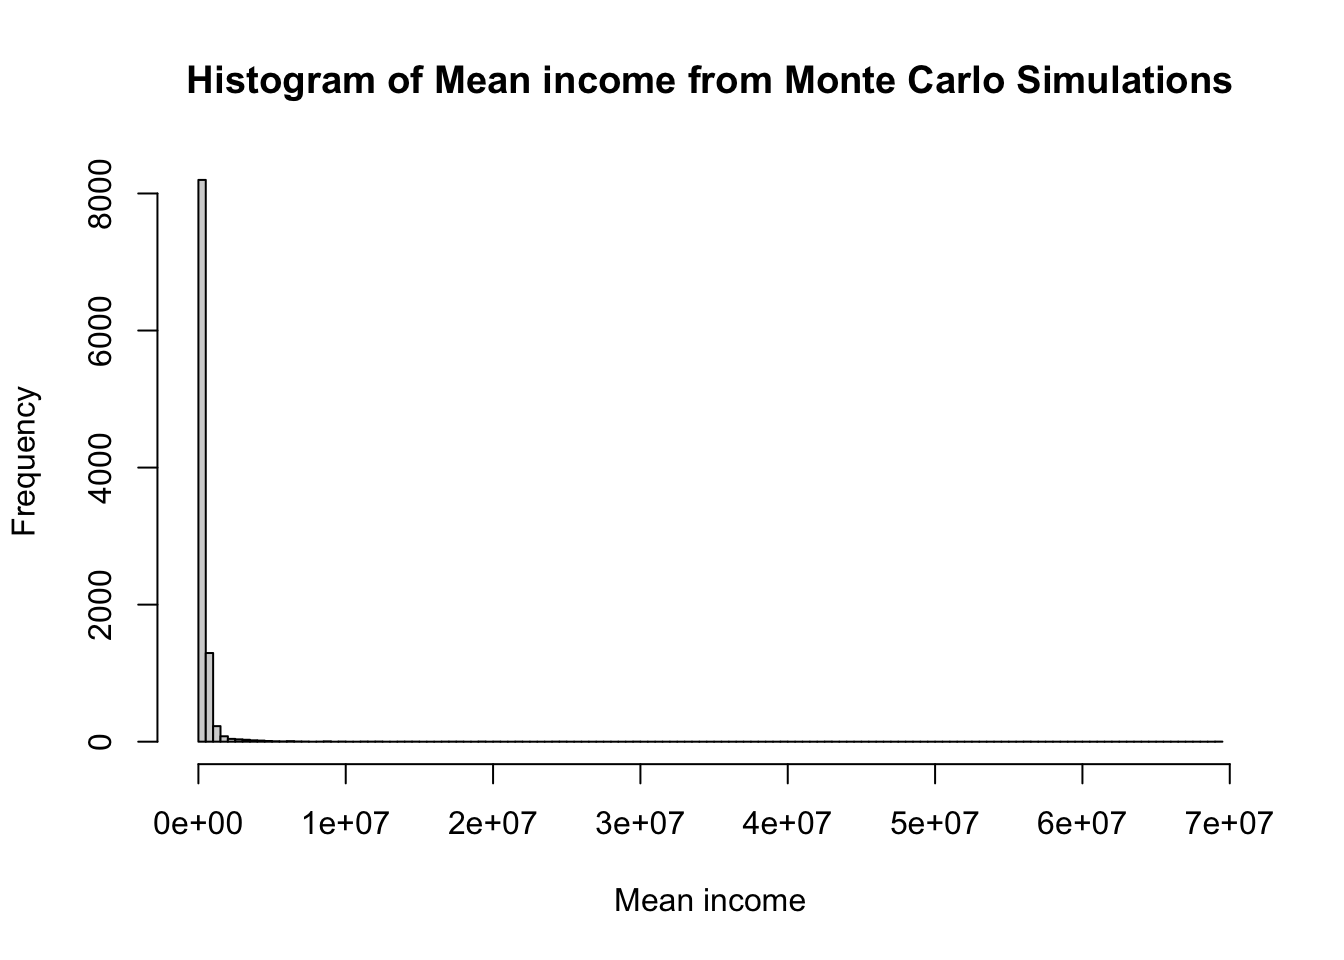
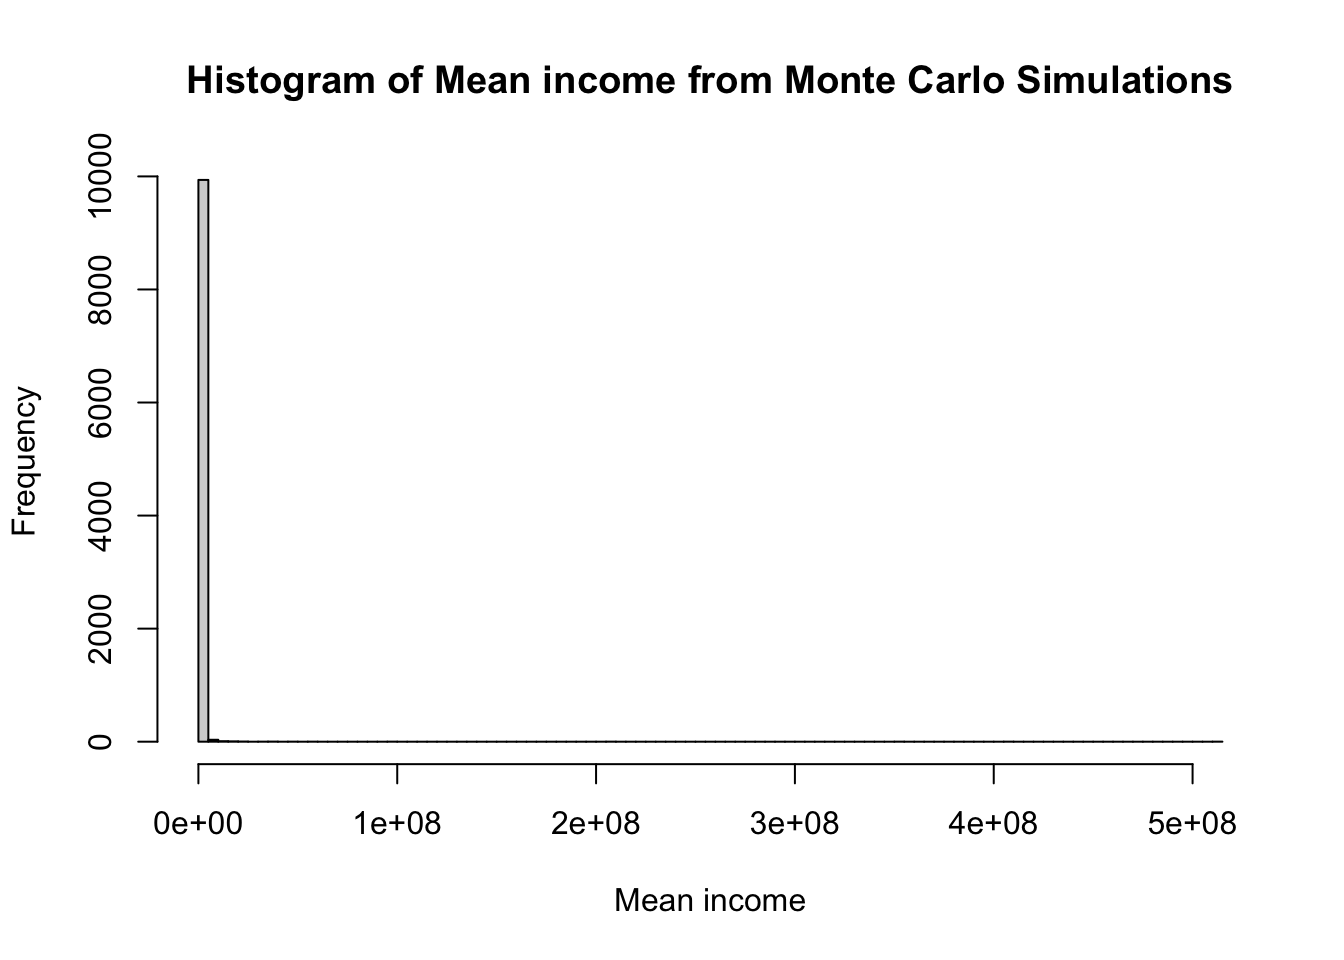
footnote pareto

diff --git a/docs/posts/montecarlo.html b/docs/posts/montecarlo.html
@@ -808,7 +808,10 @@ window.Quarto = {
   <li><a href="#case-scenario" id="toc-case-scenario" class="nav-link" data-scroll-target="#case-scenario">Case Scenario</a></li>
   <li><a href="#monte-carlo-simulation-of-income-distribution" id="toc-monte-carlo-simulation-of-income-distribution" class="nav-link" data-scroll-target="#monte-carlo-simulation-of-income-distribution">Monte Carlo simulation of income distribution</a></li>
   <li><a href="#r-for-simulating-income-distribution" id="toc-r-for-simulating-income-distribution" class="nav-link" data-scroll-target="#r-for-simulating-income-distribution">r for simulating income distribution</a></li>
-  <li><a href="#explanation-of-the-code" id="toc-explanation-of-the-code" class="nav-link" data-scroll-target="#explanation-of-the-code">Explanation of the code</a></li>
+  <li><a href="#the-simulation1" id="toc-the-simulation1" class="nav-link" data-scroll-target="#the-simulation1">The simulation</a></li>
+  <li><a href="#visualisation-of-mean-income" id="toc-visualisation-of-mean-income" class="nav-link" data-scroll-target="#visualisation-of-mean-income">Visualisation of mean income</a></li>
+  <li><a href="#distribution-of-median-income" id="toc-distribution-of-median-income" class="nav-link" data-scroll-target="#distribution-of-median-income">Distribution of median income</a></li>
+  <li><a href="#visualisation-of-the-paths" id="toc-visualisation-of-the-paths" class="nav-link" data-scroll-target="#visualisation-of-the-paths">Visualisation of the paths</a></li>
   <li><a href="#interpretation" id="toc-interpretation" class="nav-link" data-scroll-target="#interpretation">Interpretation</a></li>
   <li><a href="#summary" id="toc-summary" class="nav-link" data-scroll-target="#summary">Summary</a></li>
   </ul>
@@ -899,7 +902,7 @@ Income distribution is not normal
 </section>
 <section id="monte-carlo-simulation-of-income-distribution" class="level2">
 <h2 class="anchored" data-anchor-id="monte-carlo-simulation-of-income-distribution">Monte Carlo simulation of income distribution</h2>
-<p>Monte Carlo Simulation can be defined as a computational method of repeated random sampling to obtain numerical results. It can be done using <code>excel</code> with or without add-ons for simulation. Excel does not natively support Pareto sampling. Free Open Sourse add-ons like <code>XLRisk</code> also (right now) does not support the same. <code>r</code> is excellent tool in this situation and also for Monte Carlo simulation of returns form volatile instruments using <code>levi stable distribution</code></p>
+<p>Monte Carlo Simulation can be defined as a computational method of repeated random sampling to obtain numerical results. It can be done using <code>excel</code> with or without add-ons for simulation. Excel does not natively support Pareto sampling. Free Open Sourse add-ons like <code>XLRisk</code> also (right now) does not support the same. <code>r</code> is excellent tool in this situation and also for Monte Carlo simulation of returns for volatile instruments using <code>levi stable distribution</code></p>
 </section>
 <section id="r-for-simulating-income-distribution" class="level2">
 <h2 class="anchored" data-anchor-id="r-for-simulating-income-distribution">r for simulating income distribution</h2>
@@ -927,39 +930,33 @@ Income distribution is not normal
 </details>
 </div>
 <p>To perform a Monte Carlo simulation, we will repeat the random sampling multiple times and analyze the results. Let’s say we want to perform 10000 simulations.</p>
+</section>
+<section id="the-simulation1" class="level2">
+<h2 class="anchored" data-anchor-id="the-simulation1">The simulation<a href="#fn1" class="footnote-ref" id="fnref1" role="doc-noteref"><sup>1</sup></a></h2>
 <div class="cell">
 <details open="" class="code-fold">
 <summary>Code</summary>
-<div class="sourceCode cell-code" id="cb4"><pre class="sourceCode r code-with-copy"><code class="sourceCode r"><span id="cb4-1"><a href="#cb4-1" aria-hidden="true" tabindex="-1"></a>num_simulations <span class="ot">&lt;-</span> <span class="dv">10000</span></span>
-<span id="cb4-2"><a href="#cb4-2" aria-hidden="true" tabindex="-1"></a>simulation_results <span class="ot">&lt;-</span> <span class="fu">matrix</span>(<span class="cn">NA</span>, <span class="at">nrow =</span> num_simulations, <span class="at">ncol =</span> n)</span>
-<span id="cb4-3"><a href="#cb4-3" aria-hidden="true" tabindex="-1"></a></span>
-<span id="cb4-4"><a href="#cb4-4" aria-hidden="true" tabindex="-1"></a><span class="cf">for</span> (i <span class="cf">in</span> <span class="dv">1</span><span class="sc">:</span>num_simulations) {</span>
-<span id="cb4-5"><a href="#cb4-5" aria-hidden="true" tabindex="-1"></a>  simulation_results[i, ] <span class="ot">&lt;-</span> <span class="fu">rpareto</span>(n, <span class="at">scale =</span> xm, <span class="at">shape =</span> alpha)</span>
-<span id="cb4-6"><a href="#cb4-6" aria-hidden="true" tabindex="-1"></a>}</span>
-<span id="cb4-7"><a href="#cb4-7" aria-hidden="true" tabindex="-1"></a></span>
-<span id="cb4-8"><a href="#cb4-8" aria-hidden="true" tabindex="-1"></a><span class="co"># Summarize the results</span></span>
-<span id="cb4-9"><a href="#cb4-9" aria-hidden="true" tabindex="-1"></a>mean_income <span class="ot">&lt;-</span> <span class="fu">apply</span>(simulation_results, <span class="dv">1</span>, mean)</span>
-<span id="cb4-10"><a href="#cb4-10" aria-hidden="true" tabindex="-1"></a>median_income <span class="ot">&lt;-</span> <span class="fu">apply</span>(simulation_results, <span class="dv">1</span>, median)</span>
-<span id="cb4-11"><a href="#cb4-11" aria-hidden="true" tabindex="-1"></a>sd_income <span class="ot">&lt;-</span> <span class="fu">apply</span>(simulation_results, <span class="dv">1</span>, sd)</span></code><button title="Copy to Clipboard" class="code-copy-button"><i class="bi"></i></button></pre></div>
+<div class="sourceCode cell-code" id="cb5"><pre class="sourceCode r code-with-copy"><code class="sourceCode r"><span id="cb5-1"><a href="#cb5-1" aria-hidden="true" tabindex="-1"></a>num_simulations <span class="ot">&lt;-</span> <span class="dv">10000</span></span>
+<span id="cb5-2"><a href="#cb5-2" aria-hidden="true" tabindex="-1"></a>simulation_results <span class="ot">&lt;-</span> <span class="fu">matrix</span>(<span class="cn">NA</span>, <span class="at">nrow =</span> num_simulations, <span class="at">ncol =</span> n)</span>
+<span id="cb5-3"><a href="#cb5-3" aria-hidden="true" tabindex="-1"></a></span>
+<span id="cb5-4"><a href="#cb5-4" aria-hidden="true" tabindex="-1"></a><span class="cf">for</span> (i <span class="cf">in</span> <span class="dv">1</span><span class="sc">:</span>num_simulations) {</span>
+<span id="cb5-5"><a href="#cb5-5" aria-hidden="true" tabindex="-1"></a>  simulation_results[i, ] <span class="ot">&lt;-</span> <span class="fu">rpareto</span>(n, <span class="at">scale =</span> xm, <span class="at">shape =</span> alpha)</span>
+<span id="cb5-6"><a href="#cb5-6" aria-hidden="true" tabindex="-1"></a>}</span>
+<span id="cb5-7"><a href="#cb5-7" aria-hidden="true" tabindex="-1"></a></span>
+<span id="cb5-8"><a href="#cb5-8" aria-hidden="true" tabindex="-1"></a><span class="co"># Summarize the results</span></span>
+<span id="cb5-9"><a href="#cb5-9" aria-hidden="true" tabindex="-1"></a>mean_income <span class="ot">&lt;-</span> <span class="fu">apply</span>(simulation_results, <span class="dv">1</span>, mean)</span>
+<span id="cb5-10"><a href="#cb5-10" aria-hidden="true" tabindex="-1"></a>median_income <span class="ot">&lt;-</span> <span class="fu">apply</span>(simulation_results, <span class="dv">1</span>, median)</span>
+<span id="cb5-11"><a href="#cb5-11" aria-hidden="true" tabindex="-1"></a>sd_income <span class="ot">&lt;-</span> <span class="fu">apply</span>(simulation_results, <span class="dv">1</span>, sd)</span></code><button title="Copy to Clipboard" class="code-copy-button"><i class="bi"></i></button></pre></div>
 </details>
 </div>
 </section>
-<section id="explanation-of-the-code" class="level2">
-<h2 class="anchored" data-anchor-id="explanation-of-the-code">Explanation of the code</h2>
-<ul>
-<li><p><strong><code>NA</code></strong>: This specifies the value that will fill the matrix. In this case, <strong><code>NA</code></strong> indicates that each element of the matrix will be initialized as a missing value.</p></li>
-<li><p><strong><code>nrow = num_simulations</code></strong>: This argument specifies the number of rows in the matrix. Here, <strong><code>num_simulations</code></strong> is the number of simulations we want to run, so the matrix will have <strong><code>num_simulations</code></strong> rows.</p></li>
-<li><p><strong><code>ncol = n</code></strong>: This argument specifies the number of columns in the matrix. In our code, <strong><code>n</code></strong> is the number of individuals we want to simulate wealth for, so the matrix will have <strong><code>n</code></strong> columns.</p></li>
-<li><p><strong><code>for (i in 1:num_simulations)</code></strong>: This loop iterates <strong><code>num_simulations</code></strong> times, where <strong><code>i</code></strong> takes on the values from 1 to <strong><code>num_simulations</code></strong>.</p></li>
-<li><p><strong><code>simulation_results[i, ] &lt;- rpareto(n, scale = xm, shape = alpha)</code></strong>: In each iteration of the loop, you’re generating a set of random wealth values for <strong><code>n</code></strong> individuals using the Pareto distribution specified by the parameters <strong><code>scale = xm</code></strong> and <strong><code>shape = alpha</code></strong>.</p></li>
-<li><p><strong><code>rpareto(n, scale = xm, shape = alpha)</code></strong>: This function generates <strong><code>n</code></strong> random numbers from a Pareto distribution with scale <strong><code>xm</code></strong> and shape <strong><code>alpha</code></strong>.</p></li>
-<li><p><strong><code>simulation_results[i, ] &lt;- ...</code></strong>: This assigns the generated random wealth values to the <strong><code>i</code></strong>-th row of the <strong><code>simulation_results</code></strong> matrix. Each row of <strong><code>simulation_results</code></strong> represents the wealth distribution for one simulation iteration.</p></li>
-</ul>
+<section id="visualisation-of-mean-income" class="level2">
+<h2 class="anchored" data-anchor-id="visualisation-of-mean-income">Visualisation of mean income</h2>
 <div class="cell">
 <details open="" class="code-fold">
 <summary>Code</summary>
-<div class="sourceCode cell-code" id="cb5"><pre class="sourceCode r code-with-copy"><code class="sourceCode r"><span id="cb5-1"><a href="#cb5-1" aria-hidden="true" tabindex="-1"></a><span class="co"># Histogram of mean income from simulations</span></span>
-<span id="cb5-2"><a href="#cb5-2" aria-hidden="true" tabindex="-1"></a><span class="fu">hist</span>(mean_income, <span class="at">breaks =</span> <span class="dv">125</span>, <span class="at">main =</span> <span class="st">"Histogram of Mean income from Monte Carlo Simulations"</span>, <span class="at">xlab =</span> <span class="st">"Mean income"</span>)</span></code><button title="Copy to Clipboard" class="code-copy-button"><i class="bi"></i></button></pre></div>
+<div class="sourceCode cell-code" id="cb6"><pre class="sourceCode r code-with-copy"><code class="sourceCode r"><span id="cb6-1"><a href="#cb6-1" aria-hidden="true" tabindex="-1"></a><span class="co"># Histogram of mean income from simulations</span></span>
+<span id="cb6-2"><a href="#cb6-2" aria-hidden="true" tabindex="-1"></a><span class="fu">hist</span>(mean_income, <span class="at">breaks =</span> <span class="dv">125</span>, <span class="at">main =</span> <span class="st">"Histogram of Mean income from Monte Carlo Simulations"</span>, <span class="at">xlab =</span> <span class="st">"Mean income"</span>)</span></code><button title="Copy to Clipboard" class="code-copy-button"><i class="bi"></i></button></pre></div>
 </details>
 <div class="cell-output-display">
 <div>
@@ -970,35 +967,39 @@ Income distribution is not normal
 </div>
 <details open="" class="code-fold">
 <summary>Code</summary>
-<div class="sourceCode cell-code" id="cb6"><pre class="sourceCode r code-with-copy"><code class="sourceCode r"><span id="cb6-1"><a href="#cb6-1" aria-hidden="true" tabindex="-1"></a><span class="co"># Summary statistics</span></span>
-<span id="cb6-2"><a href="#cb6-2" aria-hidden="true" tabindex="-1"></a><span class="fu">summary</span>(mean_income)</span></code><button title="Copy to Clipboard" class="code-copy-button"><i class="bi"></i></button></pre></div>
-</details>
-<div class="cell-output cell-output-stdout">
-<pre><code>    Min.  1st Qu.   Median     Mean  3rd Qu.     Max. 
-  212446   296544   344103   522136   439824 69034850 </code></pre>
-</div>
-<details open="" class="code-fold">
-<summary>Code</summary>
-<div class="sourceCode cell-code" id="cb8"><pre class="sourceCode r code-with-copy"><code class="sourceCode r"><span id="cb8-1"><a href="#cb8-1" aria-hidden="true" tabindex="-1"></a><span class="fu">summary</span>(median_income)</span></code><button title="Copy to Clipboard" class="code-copy-button"><i class="bi"></i></button></pre></div>
-</details>
-<div class="cell-output cell-output-stdout">
-<pre><code>   Min. 1st Qu.  Median    Mean 3rd Qu.    Max. 
-  62237   64052   64488   64504   64945   67116 </code></pre>
-</div>
-<details open="" class="code-fold">
-<summary>Code</summary>
-<div class="sourceCode cell-code" id="cb10"><pre class="sourceCode r code-with-copy"><code class="sourceCode r"><span id="cb10-1"><a href="#cb10-1" aria-hidden="true" tabindex="-1"></a><span class="fu">summary</span>(sd_income)</span></code><button title="Copy to Clipboard" class="code-copy-button"><i class="bi"></i></button></pre></div>
+<div class="sourceCode cell-code" id="cb7"><pre class="sourceCode r code-with-copy"><code class="sourceCode r"><span id="cb7-1"><a href="#cb7-1" aria-hidden="true" tabindex="-1"></a><span class="co"># Summary statistics</span></span>
+<span id="cb7-2"><a href="#cb7-2" aria-hidden="true" tabindex="-1"></a><span class="fu">summary</span>(mean_income)</span></code><button title="Copy to Clipboard" class="code-copy-button"><i class="bi"></i></button></pre></div>
 </details>
 <div class="cell-output cell-output-stdout">
 <pre><code>     Min.   1st Qu.    Median      Mean   3rd Qu.      Max. 
-9.707e+05 3.339e+06 5.747e+06 2.277e+07 1.218e+07 6.867e+09 </code></pre>
+   206922    295955    344899    668662    439677 511731225 </code></pre>
+</div>
+<details open="" class="code-fold">
+<summary>Code</summary>
+<div class="sourceCode cell-code" id="cb9"><pre class="sourceCode r code-with-copy"><code class="sourceCode r"><span id="cb9-1"><a href="#cb9-1" aria-hidden="true" tabindex="-1"></a><span class="fu">summary</span>(median_income)</span></code><button title="Copy to Clipboard" class="code-copy-button"><i class="bi"></i></button></pre></div>
+</details>
+<div class="cell-output cell-output-stdout">
+<pre><code>   Min. 1st Qu.  Median    Mean 3rd Qu.    Max. 
+  61857   64076   64514   64514   64944   66843 </code></pre>
+</div>
+<details open="" class="code-fold">
+<summary>Code</summary>
+<div class="sourceCode cell-code" id="cb11"><pre class="sourceCode r code-with-copy"><code class="sourceCode r"><span id="cb11-1"><a href="#cb11-1" aria-hidden="true" tabindex="-1"></a><span class="fu">summary</span>(sd_income)</span></code><button title="Copy to Clipboard" class="code-copy-button"><i class="bi"></i></button></pre></div>
+</details>
+<div class="cell-output cell-output-stdout">
+<pre><code>     Min.   1st Qu.    Median      Mean   3rd Qu.      Max. 
+9.799e+05 3.345e+06 5.730e+06 3.748e+07 1.223e+07 5.109e+10 </code></pre>
 </div>
 </div>
+</section>
+<section id="distribution-of-median-income" class="level2">
+<h2 class="anchored" data-anchor-id="distribution-of-median-income">Distribution of median income</h2>
+<p>Median income is the most likely income one can expect in this community. It is an approximation of geometric mean of all the possible incomes.</p>
 <div class="cell">
 <details open="" class="code-fold">
 <summary>Code</summary>
-<div class="sourceCode cell-code" id="cb12"><pre class="sourceCode r code-with-copy"><code class="sourceCode r"><span id="cb12-1"><a href="#cb12-1" aria-hidden="true" tabindex="-1"></a><span class="co"># Density plot of median income</span></span>
-<span id="cb12-2"><a href="#cb12-2" aria-hidden="true" tabindex="-1"></a><span class="fu">plot</span>(<span class="fu">density</span>(median_income), <span class="at">main =</span> <span class="st">"Density Plot of Median income"</span>, <span class="at">xlab =</span> <span class="st">"Median income"</span>)</span></code><button title="Copy to Clipboard" class="code-copy-button"><i class="bi"></i></button></pre></div>
+<div class="sourceCode cell-code" id="cb13"><pre class="sourceCode r code-with-copy"><code class="sourceCode r"><span id="cb13-1"><a href="#cb13-1" aria-hidden="true" tabindex="-1"></a><span class="co"># Density plot of median income</span></span>
+<span id="cb13-2"><a href="#cb13-2" aria-hidden="true" tabindex="-1"></a><span class="fu">plot</span>(<span class="fu">density</span>(median_income), <span class="at">main =</span> <span class="st">"Density Plot of Median income"</span>, <span class="at">xlab =</span> <span class="st">"Median income"</span>)</span></code><button title="Copy to Clipboard" class="code-copy-button"><i class="bi"></i></button></pre></div>
 </details>
 <div class="cell-output-display">
 <div>
@@ -1008,17 +1009,20 @@ Income distribution is not normal
 </div>
 </div>
 </div>
-<div class="sourceCode" id="cb13"><pre class="sourceCode default code-with-copy"><code class="sourceCode default"><span id="cb13-1"><a href="#cb13-1" aria-hidden="true" tabindex="-1"></a># Generate colors for the paths</span>
-<span id="cb13-2"><a href="#cb13-2" aria-hidden="true" tabindex="-1"></a>colors &lt;- rainbow(num_simulations)</span>
-<span id="cb13-3"><a href="#cb13-3" aria-hidden="true" tabindex="-1"></a></span>
-<span id="cb13-4"><a href="#cb13-4" aria-hidden="true" tabindex="-1"></a># Plot the first simulated path with the first color</span>
-<span id="cb13-5"><a href="#cb13-5" aria-hidden="true" tabindex="-1"></a>plot(1:n, simulation_results[1, ], type = "l", ylim = c(min(simulation_results), max(simulation_results)),</span>
-<span id="cb13-6"><a href="#cb13-6" aria-hidden="true" tabindex="-1"></a>     xlab = "Individual", ylab = "Income", main = "Simulated Paths of Income", col = colors[1], lwd = 2)</span>
-<span id="cb13-7"><a href="#cb13-7" aria-hidden="true" tabindex="-1"></a></span>
-<span id="cb13-8"><a href="#cb13-8" aria-hidden="true" tabindex="-1"></a># Add the rest of the simulated paths with different colors</span>
-<span id="cb13-9"><a href="#cb13-9" aria-hidden="true" tabindex="-1"></a></span>
-<span id="cb13-10"><a href="#cb13-10" aria-hidden="true" tabindex="-1"></a>for (i in 2:num_simulations) {</span>
-<span id="cb13-11"><a href="#cb13-11" aria-hidden="true" tabindex="-1"></a>  lines(1:n, simulation_results[i, ], col = colors[i], lwd = 2)</span></code><button title="Copy to Clipboard" class="code-copy-button"><i class="bi"></i></button></pre></div>
+</section>
+<section id="visualisation-of-the-paths" class="level2">
+<h2 class="anchored" data-anchor-id="visualisation-of-the-paths">Visualisation of the paths</h2>
+<div class="sourceCode" id="cb14"><pre class="sourceCode default code-with-copy"><code class="sourceCode default"><span id="cb14-1"><a href="#cb14-1" aria-hidden="true" tabindex="-1"></a># Generate colors for the paths</span>
+<span id="cb14-2"><a href="#cb14-2" aria-hidden="true" tabindex="-1"></a>colors &lt;- rainbow(num_simulations)</span>
+<span id="cb14-3"><a href="#cb14-3" aria-hidden="true" tabindex="-1"></a></span>
+<span id="cb14-4"><a href="#cb14-4" aria-hidden="true" tabindex="-1"></a># Plot the first simulated path with the first color</span>
+<span id="cb14-5"><a href="#cb14-5" aria-hidden="true" tabindex="-1"></a>plot(1:n, simulation_results[1, ], type = "l", ylim = c(min(simulation_results), max(simulation_results)),</span>
+<span id="cb14-6"><a href="#cb14-6" aria-hidden="true" tabindex="-1"></a>     xlab = "Individual", ylab = "Income", main = "Simulated Paths of Income", col = colors[1], lwd = 2)</span>
+<span id="cb14-7"><a href="#cb14-7" aria-hidden="true" tabindex="-1"></a></span>
+<span id="cb14-8"><a href="#cb14-8" aria-hidden="true" tabindex="-1"></a># Add the rest of the simulated paths with different colors</span>
+<span id="cb14-9"><a href="#cb14-9" aria-hidden="true" tabindex="-1"></a></span>
+<span id="cb14-10"><a href="#cb14-10" aria-hidden="true" tabindex="-1"></a>for (i in 2:num_simulations) {</span>
+<span id="cb14-11"><a href="#cb14-11" aria-hidden="true" tabindex="-1"></a>  lines(1:n, simulation_results[i, ], col = colors[i], lwd = 2)</span></code><button title="Copy to Clipboard" class="code-copy-button"><i class="bi"></i></button></pre></div>
 <p><img src="images/clipboard-1360920300.png" class="img-fluid"></p>
 </section>
 <section id="interpretation" class="level2">
@@ -1063,7 +1067,24 @@ Income distribution is not normal
 
 </section>
 
-<a onclick="window.scrollTo(0, 0); return false;" role="button" id="quarto-back-to-top"><i class="bi bi-arrow-up"></i> Back to top</a></main> <!-- /main -->
+
+<a onclick="window.scrollTo(0, 0); return false;" role="button" id="quarto-back-to-top"><i class="bi bi-arrow-up"></i> Back to top</a><div id="quarto-appendix" class="default"><section id="footnotes" class="footnotes footnotes-end-of-document" role="doc-endnotes"><h2 class="anchored quarto-appendix-heading">Footnotes</h2>
+
+<ol>
+<li id="fn1"><h2 id="explanation-of-the-code" class="anchored">Explanation of the code</h2>
+<ul>
+<li><p><strong><code>NA</code></strong>: This specifies the value that will fill the matrix. In this case, <strong><code>NA</code></strong> indicates that each element of the matrix will be initialized as a missing value.</p></li>
+<li><p><strong><code>nrow = num_simulations</code></strong>: This argument specifies the number of rows in the matrix. Here, <strong><code>num_simulations</code></strong> is the number of simulations we want to run, so the matrix will have <strong><code>num_simulations</code></strong> rows.</p></li>
+<li><p><strong><code>ncol = n</code></strong>: This argument specifies the number of columns in the matrix. In our code, <strong><code>n</code></strong> is the number of individuals we want to simulate wealth for, so the matrix will have <strong><code>n</code></strong> columns.</p></li>
+<li><p><strong><code>for (i in 1:num_simulations)</code></strong>: This loop iterates <strong><code>num_simulations</code></strong> times, where <strong><code>i</code></strong> takes on the values from 1 to <strong><code>num_simulations</code></strong>.</p></li>
+<li><p><strong><code>simulation_results[i, ] &lt;- rpareto(n, scale = xm, shape = alpha)</code></strong>: In each iteration of the loop, you’re generating a set of random wealth values for <strong><code>n</code></strong> individuals using the Pareto distribution specified by the parameters <strong><code>scale = xm</code></strong> and <strong><code>shape = alpha</code></strong>.</p></li>
+<li><p><strong><code>rpareto(n, scale = xm, shape = alpha)</code></strong>: This function generates <strong><code>n</code></strong> random numbers from a Pareto distribution with scale <strong><code>xm</code></strong> and shape <strong><code>alpha</code></strong>.</p></li>
+<li><p><strong><code>simulation_results[i, ] &lt;- ...</code></strong>: This assigns the generated random wealth values to the <strong><code>i</code></strong>-th row of the <strong><code>simulation_results</code></strong> matrix. Each row of <strong><code>simulation_results</code></strong> represents the wealth distribution for one simulation iteration.</p></li>
+</ul>
+<pre><code></code></pre>
+<a href="#fnref1" class="footnote-back" role="doc-backlink">↩</a></li>
+</ol>
+</section></div></main> <!-- /main -->
 <script id="quarto-html-after-body" type="application/javascript">
 window.document.addEventListener("DOMContentLoaded", function (event) {
   const toggleBodyColorMode = (bsSheetEl) => {

diff --git a/docs/posts.html b/docs/posts.html
@@ -923,7 +923,7 @@ Categories
 <span class="listing-categories">technology, ev</span>
 </td>
 </tr>
-<tr data-index="1" data-categories="Monte Carlo simulation,economics" data-listing-date-sort="1716143400000" data-listing-file-modified-sort="1716184765270" data-listing-date-modified-sort="NaN" data-listing-reading-time-sort="7" data-listing-word-count-sort="1295" data-listing-title-sort="Income distribution" data-listing-filename-sort="montecarlo.qmd">
+<tr data-index="1" data-categories="Monte Carlo simulation,economics" data-listing-date-sort="1716143400000" data-listing-file-modified-sort="1716187204669" data-listing-date-modified-sort="NaN" data-listing-reading-time-sort="7" data-listing-word-count-sort="1373" data-listing-title-sort="Income distribution" data-listing-filename-sort="montecarlo.qmd">
 <td>
 <span class="listing-date">May 20, 2024</span>
 </td>

diff --git a/docs/Revision notes/Diagrams/diagrams.html b/docs/Revision notes/Diagrams/diagrams.html
@@ -1255,7 +1255,7 @@ window.document.addEventListener("DOMContentLoaded", function (event) {
 </div>
   </div>
 </footer>
-<script>var lightboxQuarto = GLightbox({"openEffect":"zoom","loop":false,"selector":".lightbox","descPosition":"bottom","closeEffect":"zoom"});
+<script>var lightboxQuarto = GLightbox({"loop":false,"selector":".lightbox","descPosition":"bottom","openEffect":"zoom","closeEffect":"zoom"});
 window.onload = () => {
   lightboxQuarto.on('slide_before_load', (data) => {
     const { slideIndex, slideNode, slideConfig, player, trigger } = data;
